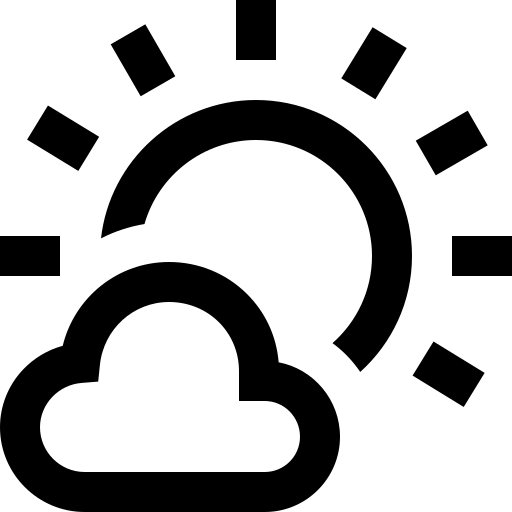
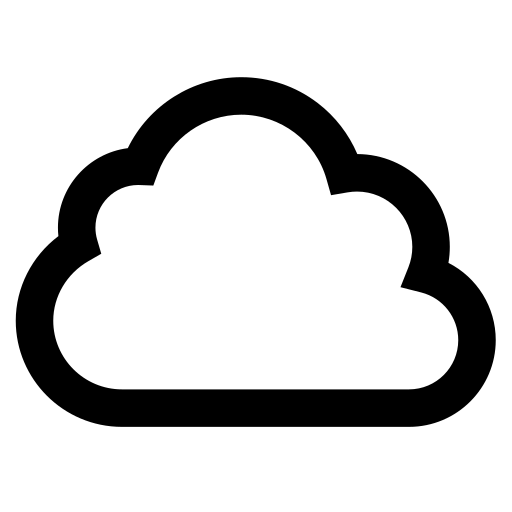
Weer en klok live + weer-pictogrammen

diff --git a/lib/data/weer.dart b/lib/data/weer.dart
@@ -1,0 +1,94 @@
+import 'dart:async';
+import 'dart:convert';
+
+import 'package:flutter/widgets.dart';
+import 'package:http/http.dart' as http;
+import 'package:lucide_icons_flutter/lucide_icons.dart';
+
+import 'taal.dart';
+
+/// Het weer op het festivalterrein (Biddinghuizen).
+/// Komt van Open-Meteo: gratis, geen sleutel nodig. Elke 15 minuten opnieuw.
+class Weer {
+  const Weer(this.graden, this.code, this.regenKans);
+
+  final double graden; // temperatuur in °C
+  final int code; // weercode (0 = zonnig, 3 = bewolkt, 61 = regen ...)
+  final List<int> regenKans; // kans op regen per uur, vanaf nu (in %)
+
+  /// Het laatste weer. null = nog aan het laden.
+  static final ValueNotifier<Weer?> huidig = ValueNotifier(null);
+
+  static Timer? _timer;
+
+  /// Start met ophalen (één keer, bij het opstarten van de app).
+  static void start() {
+    if (_timer != null) return;
+    _haalOp();
+    _timer = Timer.periodic(const Duration(minutes: 15), (_) => _haalOp());
+  }
+
+  static Future<void> _haalOp() async {
+    try {
+      final antwoord = await http
+          .get(
+            Uri.parse(
+              'https://api.open-meteo.com/v1/forecast'
+              '?latitude=52.43&longitude=5.77'
+              '&current=temperature_2m,weather_code'
+              '&hourly=precipitation_probability&forecast_hours=12'
+              '&timezone=Europe%2FAmsterdam',
+            ),
+          )
+          .timeout(const Duration(seconds: 15));
+      if (antwoord.statusCode != 200) return;
+      final data = jsonDecode(antwoord.body) as Map<String, dynamic>;
+      final nu = data['current'] as Map<String, dynamic>;
+      final kansen = (data['hourly']['precipitation_probability'] as List)
+          .map((k) => (k as num?)?.toInt() ?? 0)
+          .toList();
+      huidig.value = Weer(
+        (nu['temperature_2m'] as num).toDouble(),
+        (nu['weather_code'] as num).toInt(),
+        kansen,
+      );
+    } catch (_) {
+      // Geen internet? Dan houden we het vorige weer en proberen het straks weer.
+    }
+  }
+
+  /// Bijv. '18°C'.
+  String get temperatuur => '${graden.round()}°C';
+
+  /// Naam van het pictogram in assets/pictograms (zonder .png).
+  String get pictogram => switch (code) {
+    0 => 'Zonnig',
+    1 || 2 => 'Half_bewolkt',
+    3 => 'Bewolkt',
+    45 || 48 => 'Mist',
+    >= 95 => 'Onweer',
+    (>= 71 && <= 77) || 85 || 86 => 'Sneeuw',
+    >= 51 => 'Regen',
+    _ => 'Bewolkt',
+  };
+
+  /// Reserve-icoon als het eigen pictogram (nog) niet bestaat.
+  IconData get reserveIcoon => switch (pictogram) {
+    'Zonnig' => LucideIcons.sun,
+    'Half_bewolkt' => LucideIcons.cloudSun,
+    'Mist' => LucideIcons.cloudFog,
+    'Onweer' => LucideIcons.cloudLightning,
+    'Sneeuw' => LucideIcons.snowflake,
+    'Regen' => LucideIcons.cloudRain,
+    _ => LucideIcons.cloud,
+  };
+
+  /// Bijv. 'Droog tot 23:00' of 'Kans op regen'.
+  String get verwachting {
+    final regenUur = regenKans.indexWhere((kans) => kans >= 50);
+    if (regenUur == 0) return t('Kans op regen');
+    if (regenUur == -1) return t('Droog de komende uren');
+    final uur = (DateTime.now().hour + regenUur) % 24;
+    return '${t('Droog tot')} ${uur.toString().padLeft(2, '0')}:00';
+  }
+}

diff --git a/lib/widgets/live.dart b/lib/widgets/live.dart
@@ -1,0 +1,79 @@
+import 'dart:async';
+
+import 'package:flutter/material.dart';
+
+import '../data/weer.dart';
+
+/// Klok die elke paar seconden de echte tijd laat zien, bijv. '18:42'.
+class Klok extends StatefulWidget {
+  const Klok({super.key, this.style});
+
+  final TextStyle? style;
+
+  @override
+  State<Klok> createState() => _KlokState();
+}
+
+class _KlokState extends State<Klok> {
+  DateTime _nu = DateTime.now();
+  late final Timer _timer;
+
+  @override
+  void initState() {
+    super.initState();
+    _timer = Timer.periodic(
+      const Duration(seconds: 10),
+      (_) => setState(() => _nu = DateTime.now()),
+    );
+  }
+
+  @override
+  void dispose() {
+    _timer.cancel();
+    super.dispose();
+  }
+
+  @override
+  Widget build(BuildContext context) {
+    String twee(int n) => n.toString().padLeft(2, '0');
+    return Text('${twee(_nu.hour)}:${twee(_nu.minute)}', style: widget.style);
+  }
+}
+
+/// Weer-icoontje. Gebruikt je eigen pictogram (bijv. assets/pictograms/Regen.png).
+/// Bestaat dat plaatje nog niet? Dan een standaard-icoon.
+class WeerIcoon extends StatelessWidget {
+  const WeerIcoon({super.key, this.size = 18, this.color = Colors.white});
+
+  final double size;
+  final Color color;
+
+  @override
+  Widget build(BuildContext context) => ValueListenableBuilder<Weer?>(
+    valueListenable: Weer.huidig,
+    builder: (_, weer, _) => Image.asset(
+      'assets/pictograms/${weer?.pictogram ?? 'Bewolkt'}.png',
+      width: size * 1.2,
+      height: size * 1.2,
+      color: color,
+      errorBuilder: (_, _, _) => Icon(
+        weer?.reserveIcoon ?? Icons.cloud_outlined,
+        size: size * 1.2,
+        color: color,
+      ),
+    ),
+  );
+}
+
+/// De temperatuur als tekst, bijv. '18°C' ('–°C' zolang hij laadt).
+class WeerTemperatuur extends StatelessWidget {
+  const WeerTemperatuur({super.key, this.style});
+
+  final TextStyle? style;
+
+  @override
+  Widget build(BuildContext context) => ValueListenableBuilder<Weer?>(
+    valueListenable: Weer.huidig,
+    builder: (_, weer, _) => Text(weer?.temperatuur ?? '–°C', style: style),
+  );
+}

diff --git a/lib/screens/start_screen.dart b/lib/screens/start_screen.dart
@@ -1,8 +1,10 @@
 import 'package:flutter/material.dart';
 import '../data/taal.dart';
+import '../data/weer.dart';
 import '../theme/dq_theme.dart';
 import '../widgets/chrome.dart';
 import '../widgets/common.dart';
+import '../widgets/live.dart';
 
 class StartScreen extends StatelessWidget {
   const StartScreen({
@@ -112,15 +114,17 @@ class StartScreen extends StatelessWidget {
                           ),
                         ),
                         Container(width: 1, color: const Color(0xFF555555)),
-                        const Expanded(
-                          child: _StatusCell(
-                            leading: DqIcon(
-                              'Bewolkt',
-                              size: 18,
-                              color: DQ.yellow,
+                        Expanded(
+                          child: ValueListenableBuilder<Weer?>(
+                            valueListenable: Weer.huidig,
+                            builder: (_, weer, _) => _StatusCell(
+                              leading: const WeerIcoon(
+                                size: 18,
+                                color: DQ.yellow,
+                              ),
+                              title: weer?.temperatuur ?? '–°C',
+                              sub: weer?.verwachting ?? t('Weer laden...'),
                             ),
-                            title: '24°C',
-                            sub: 'Droog tot 23:00',
                           ),
                         ),
                       ],

diff --git a/lib/widgets/chrome.dart b/lib/widgets/chrome.dart
@@ -7,6 +7,7 @@ import '../app_shell.dart';
 import '../data/taal.dart';
 import '../theme/dq_theme.dart';
 import 'common.dart';
+import 'live.dart';
 
 /// Het DEFQON.1-logo als tekst.
 class Brand extends StatelessWidget {
@@ -252,9 +253,9 @@ class _LiveStripState extends State<LiveStrip> {
           const Spacer(),
           divider(),
           const SizedBox(width: 10),
-          const DqIcon('Bewolkt', size: 13, color: DQ.dark),
+          const WeerIcoon(size: 13, color: DQ.dark),
           const SizedBox(width: 3),
-          Text('24°C', style: inter(7, color: DQ.dark)),
+          WeerTemperatuur(style: inter(7, color: DQ.dark)),
         ],
       ),
     );

diff --git a/lib/main.dart b/lib/main.dart
@@ -4,12 +4,14 @@ import 'package:flutter/services.dart';
 import 'app_shell.dart';
 import 'data/instellingen.dart';
 import 'data/taal.dart';
+import 'data/weer.dart';
 import 'theme/dq_theme.dart';
 
 Future<void> main() async {
   WidgetsFlutterBinding.ensureInitialized();
   await Instellingen.laad(); // bewaarde aan/uit-keuzes ophalen
   await Taal.laad(); // NL of EN
+  Weer.start(); // het weer ophalen (en elke 15 min opnieuw)
   SystemChrome.setSystemUIOverlayStyle(SystemUiOverlayStyle.light);
   SystemChrome.setPreferredOrientations([DeviceOrientation.portraitUp]);
   runApp(const DefqonApp());

diff --git a/lib/screens/home_screen.dart b/lib/screens/home_screen.dart
@@ -6,6 +6,7 @@ import '../data/festival_data.dart';
 import '../data/taal.dart';
 import '../theme/dq_theme.dart';
 import '../widgets/common.dart';
+import '../widgets/live.dart';
 import 'map_screen.dart';
 
 const _ink2 = Color(0xFF15111A);
@@ -322,7 +323,7 @@ class _LiveCard extends StatelessWidget {
                   ),
                 ),
                 const Spacer(),
-                Text('18:42', style: bc(20)),
+                Klok(style: bc(20)),
               ],
             ),
           ),

diff --git a/lib/data/taal.dart b/lib/data/taal.dart
@@ -238,4 +238,9 @@ const _engels = <String, String>{
   'Ping verstuurd naar': 'Ping sent to',
   'Nog geen nieuws over': 'No news yet about',
   'MELDING': 'REPORT',
+  // Weer
+  'Droog tot': 'Dry until',
+  'Kans op regen': 'Chance of rain',
+  'Droog de komende uren': 'Dry for the next hours',
+  'Weer laden...': 'Loading weather...',
 };
